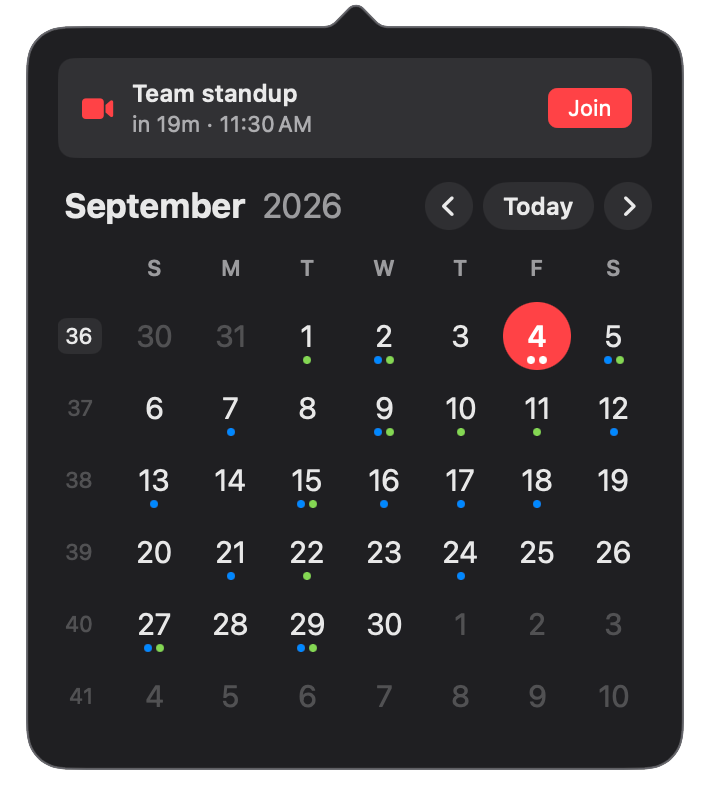
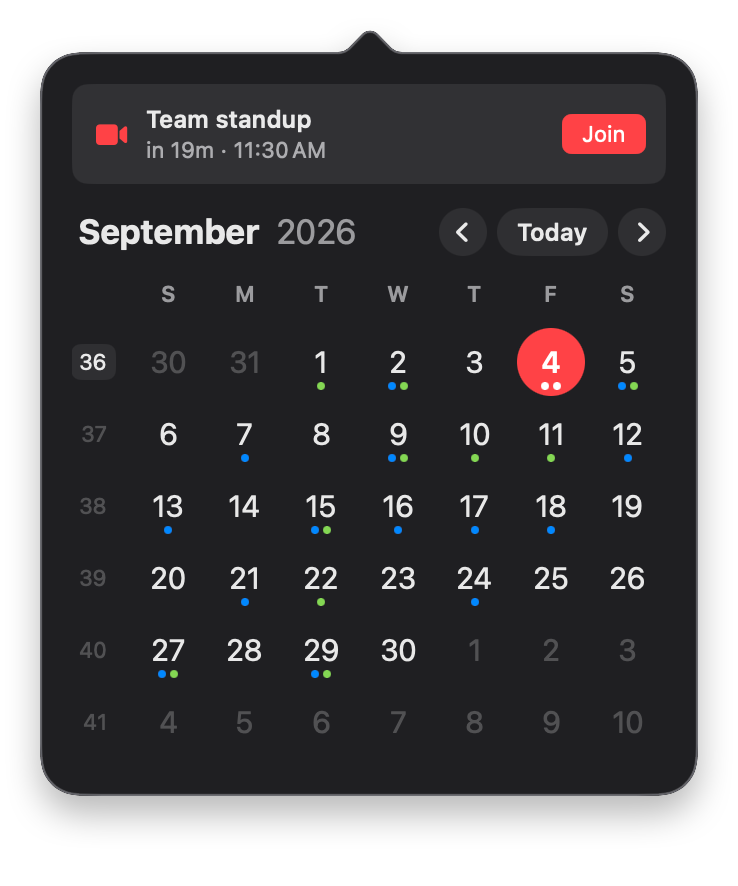
Restore the window shadow on the README popover screenshots
The reshoot captured the popovers without their shadow, because the
compositing step needs the bare window bounds, and the flat-edged cards
read as cut-outs against the page. The shadow is added back as a
post-process that matches the depth of the original release's images,
and the README widths track the padded canvas so the popovers stay the
size they were.

diff --git a/README.md b/README.md
@@ -21,7 +21,7 @@ your next meeting. Free and open source.</p>
 
 <picture>
 <source media="(prefers-color-scheme: dark)" srcset="docs/images/day-dark.png">
-<img src="docs/images/day-light.png" width="422" alt="CalPeek's popover showing the next meeting with a Join button, a month grid with event dots, and a day agenda listing events and reminders">
+<img src="docs/images/day-light.png" width="436" alt="CalPeek's popover showing the next meeting with a Join button, a month grid with event dots, and a day agenda listing events and reminders">
 </picture>
 
 </td>
@@ -32,7 +32,7 @@ your next meeting. Free and open source.</p>
 
 <picture>
 <source media="(prefers-color-scheme: dark)" srcset="docs/images/day-dark.png">
-<img src="docs/images/day-light.png" width="422" align="right" alt="CalPeek&apos;s popover with the month grid open and a day panel listing Team standup, Lunch with Sam, Design review, a Submit timesheet reminder and Portfolio review with their times">
+<img src="docs/images/day-light.png" width="436" align="right" alt="CalPeek&apos;s popover with the month grid open and a day panel listing Team standup, Lunch with Sam, Design review, a Submit timesheet reminder and Portfolio review with their times">
 </picture>
 
 The menu bar glyph shows the weekday and the day of the month, and it stays
@@ -51,7 +51,7 @@ leaving the popover.
 
 <picture>
 <source media="(prefers-color-scheme: dark)" srcset="docs/images/join-dark.png">
-<img src="docs/images/join-light.png" width="355" align="right" alt="CalPeek&apos;s popover with the next meeting pinned at the top, showing a countdown and a Join button">
+<img src="docs/images/join-light.png" width="369" align="right" alt="CalPeek&apos;s popover with the next meeting pinned at the top, showing a countdown and a Join button">
 </picture>
 
 CalPeek finds the video link in your next meeting and puts a Join button at
@@ -67,7 +67,7 @@ and a global hotkey joins it without opening anything.
 
 <picture>
 <source media="(prefers-color-scheme: dark)" srcset="docs/images/chooser-dark.png">
-<img src="docs/images/chooser-light.png" width="355" align="right" alt="CalPeek&apos;s popover with a meeting running and the Join button carrying a chevron for choosing between overlapping calls">
+<img src="docs/images/chooser-light.png" width="369" align="right" alt="CalPeek&apos;s popover with a meeting running and the Join button carrying a chevron for choosing between overlapping calls">
 </picture>
 
 Double-booked, or still in one call while the next one starts? The Join button
@@ -83,7 +83,7 @@ so the hotkey takes you to the call you actually meant.
 
 <picture>
 <source media="(prefers-color-scheme: dark)" srcset="docs/images/create-dark.png">
-<img src="docs/images/create-light.png" width="422" align="right" alt="CalPeek&apos;s create sheet with Event and Reminder tabs, a title reading Coffee with Dana, start and end times, repeat, and alert fields">
+<img src="docs/images/create-light.png" width="436" align="right" alt="CalPeek&apos;s create sheet with Event and Reminder tabs, a title reading Coffee with Dana, start and end times, repeat, and alert fields">
 </picture>
 
 Pick a day, hit +, type. Events and reminders both, with times, repeat rules,
